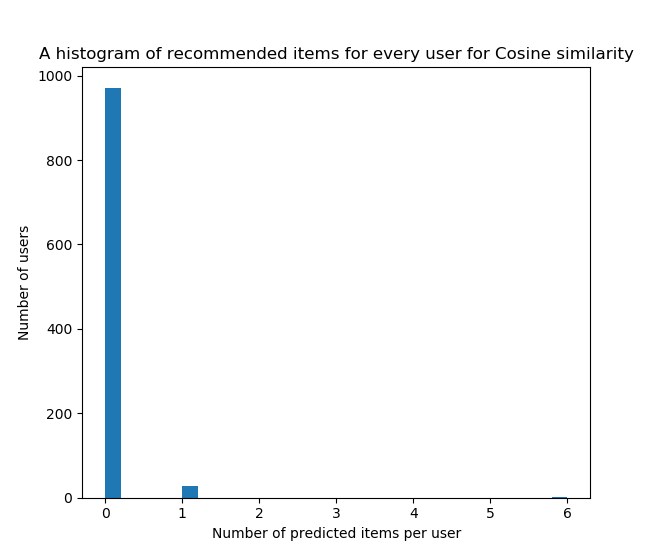
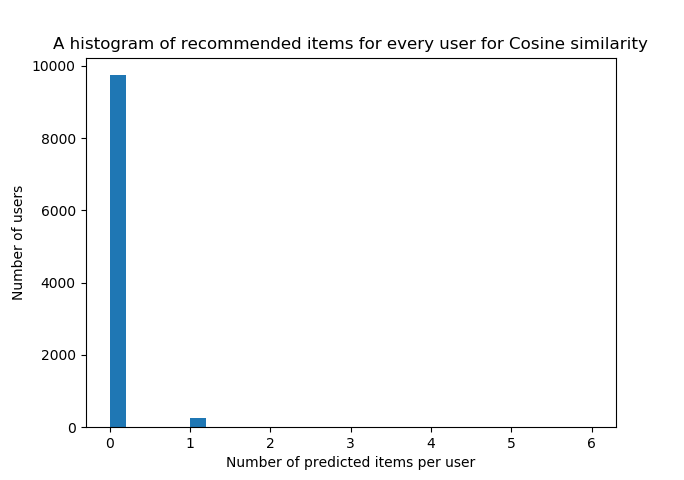
modifying README.md

diff --git a/README.md b/README.md
@@ -1,1 +1,250 @@
-"#Recommender System" 
+# The Implementation of a Simple eCommerce Recommender System (Jan 2021)
+
+## Abstract
+
+This article gives an oversight at how recommendation systems are implemented. In addition, it gives an insight into the methods used in building a simple eCommerce recommendation system. The data used for building it was a dataset of customer reviews of items that were scraped from Amazon’s website.
+The recommendation system uses an item-item Collaborative filtering approach and compares Pearson's and Cosine correlation methods for finding similar items.
+
+#### Index Terms
+
+Artificial neural networks, big data applications, information filtering, recommender systems.
+
+## Table of Contents
+
+- [ Introduction ](#intro)
+  - [ Collaborative filtering ](#collab)
+  - [ Matrix Sparsity ](#usage)
+- [ How Recommender Systems Work ](#usage)
+- [ Implementations of Recommender Systems ](#usage)
+- [ How Amazon’s Recommender System Works ](#usage)
+- [ My Implementation ](#usage)
+  - [ Limitations of the data ](#usage)
+  - [ Matrix Sparsity ](#usage)
+  - [ Reducing Sparsity of the data ](#usage)
+  - [ My Implementation ](#usage)
+- [ Implementing the machine learning algorithm ](#usage)
+  - [ Pearson's correlation ](#usage)
+  - [ Cosine similarity ](#usage)
+- [ Results ](#usage)
+  - [ Accuracy ](#usage)
+- [ Conclusion ](#usage)
+
+<a name="intro"></a>
+
+## Introduction
+
+Recommender systems are a subclass of information filtering systems that are increasingly important today. Simply put, they are a machine learning algorithm that utilizes Big Data to suggest products or items to customers. [14]
+
+They are a vital part of many computer oriented companies. All the major social platforms such as Facebook, Twitter and Instagram use them as well as most eCommerce sites such as Amazon and Wish. They also represent a large part of their profits. The largest eCommerce platform Amazon reportedly generates 35% of its revenue from its recommendation engine [15].
+
+Moreover, the second largest eCommerce platform Wish generates almost all its profits solely from its recommendation engine. Therefore, developing a good recommendation system is all the more critical nowadays.
+
+Large pools of data are vital for implementing such a system. The more data points there are collected on a specific user the more accurate the suggestions can be. Of course, with the growth of data simultaneously rises the need for a more advanced algorithm and the selection of right data points that don’t end up confusing our algorithm, but assist it in making a better solution.
+
+Recommendation systems also play a critical role in other web-based platforms. For example, in boosting engagement and improving retention. Although in this article, I will be focusing more on the recommender systems used for eCommerce sites.
+How recommender system works
+There are several approaches we can take when building recommender systems. [16]
+
+Recommendation systems can be broadly classified into 2 types:
+
+- Collaborative Filtering
+- Content-Based Filtering
+
+A more thorough division further classifies them into demographic based filtering, utility-based filtering, knowledge-based filtering etc. [17] Of course the best approach is hybrid filtering, where you combine two or more different recommender techniques to create a better prediction model.
+
+<a name="collab"></a>
+
+### Collaborative filtering
+
+It is based on the premise that similar people like similar things. It solely relies on users' past activity on the platform. The more the user interacts with the platform the more accurate it becomes.
+
+This filtering method does not know who you are, what you like or what are the specifics of the items you like. It only looks at the interaction a specific user has and compares it with the interactions of other users.
+
+The core data of a collaborative filtering model is the user-item matrix or so-called utility matrix. Each number in the given matrix represents the users rating of a specific item.
+
+See image below:
+
+We can have two general approaches on how to implement collaborative filtering.
+
+1. User-User Collaborative Filtering: Compares similar users based on the items they have chosen.
+2. Item-Item Collaborative Filtering: Compares similar items together based on the past ratings the users have given.
+
+We can have two general approaches on how to implement collaborative filtering.
+
+1. Explicit data: This is in the form of a rating score that ranges from 1 to 5.
+
+2. Implicit data: This type of data does not directly imply how the user feels about a specific item rather its inference is indirect. For example how many hours a user played a game on Steam (a video game buying platform) or how many hours a user listened to a specific track.
+
+Generally, working with implicit data is better, because you don’t get the active user involved. In addition, explicit data is very noisy, because people tend to give it an aspirational rating [18]. For example, in the case of Netflix users will give a documentary 5 stars, although they would rather watch a comedy show more often, even though they gave that show a lower rating.
+
+### Content-based filtering
+
+This approach relies only on domain knowledge of items and users and it does not take into account their past interactions. This approach finds a solution based on the similarity of the content of users and items.
+
+User features take into consideration for example the user's age, his or her gender, what types of categories the user likes, etc. Item features on the other hand can for example include the price of the item, its category, the description or its given keywords.
+
+## Implementations of Recomener systems
+
+Generally collaborative filtering is the best approach for implementing a recommendation system [18]. Other approaches are also preferable if you have ways of hybridizing and combining it with the main recommendation system. Especially, they can be useful in cold starting when you don’t have enough information about the user.
+
+There are a few more important steps you have to take into consideration, before you implement the main algorithm. The most important is data preprocessing (which includes outlier removal, denoising etc.). Due to size issues you also have to take into consideration ‘smart’ dimensionality reduction using MF (matrix factorization) or SVD (singular value decomposition).
+
+## How Amazon’s Recommender System Works
+
+Amazon’s recommendation system is based on item-item collaborative filtering. It is working with massive datasets and produces recommendations in real-time. This type of filtering matches each of the users' purchased and rated items to similar items then combines those similar items into a recommendation list for the user. [21]
+
+Interestingly, it makes most conversions via email, where they present you with bundles of items from different categories where you have been browsing.
+
+Due to Amazon being a private company, the complete mechanisms of how exactly their state of the art recommendation system works are not known. Although, it is known that they look at excessive amounts of data points, some of which include:
+Purchased items/shopping carts (most focus is put into this one)
+All user and item features
+Abandoned carts
+Dwell times (time before you click back on an item)
+Cursor location
+Web search history - Amazon tracks you outside of its web platform
+Amazon search history
+Etc.
+
+Amazon also uses different pipelines to test out their different approaches and then deploy those which perform the best. [20]
+
+Amazon’s article from 2003 [19] talks about Amazon taking an item-item collaborative filtering approach. It mentions that collaborative filtering is computationally expensive with O(NM), where M is the number of customers and N is the number of product catalog items. Although scanning every customer can be approximated with O(M), because almost all customers contain a small number of items. Further reading also discusses discarding customers with few purchases to avoid performance issues.
+
+Getting a basic understanding on how Amazon’s recommendation system was implemented gave me a better insight into how to go about making my own.
+
+## Dataset I Will be working with
+
+In this article I will present my findings that I gathered implementing a simple recommendation system from scratch from the Amazon Product Review dataset (source: https://cseweb.ucsd.edu/~jmcauley/datasets.html ).
+The dataset has been generated from web crawling the Amazon website. The larger dataset from 2018 includes 34Gb of raw review data, which includes 233.1 million reviews and ratings from more than 40 million users and more than 20 million items. Its metadata includes reviews and ratings,
+
+timestamps, prices and categories.
+
+## My Implementation
+
+The recommender system I built also implements an item-item collaborative filtering approach similar to the first Amazon recommender system.
+
+However, it uses far less data points. A large part of the reason why, is that the dataset that I have used was obtained by scraping the information from Amazon’s openly available data. Therefore, it was impossible to obtain information about people’s buying decisions, which make for the best predictions in real life. The only data points you could obtain from users were the reviews they wrote and even those were scarce.
+
+For my implementation of a simple recommender system I took into considerations only the explicit reviews, id of the item and the user. To recommend new items for a specific user the algorithm looks at the items the user has rated positively (from a rating from 1 to 5 it chooses only those above 3). Afterwards, it looks at the similarity of each item compared to other items. Lastly, it picks all the items that are most similar to each of the items and returns a list of five most similar items recommended for the chosen user.
+
+Due to limitations with my computer's RAM I only worked with a ‘smaller’ dataset in only one specific category.
+
+Limitations of the data
+As mentioned in the sections above, no matter how good is the implementation of the recommender system the nature of the data I was working with poses a limitation to how accurate it can be.
+
+The biggest discrepancy between the data extracted from the web crawler versus the data that Amazon possesses is that not all users are being accounted for, because not all users rate products. Secondly, there is no information provided on the past purchases of users, which is the most important data point on which eCommerce recommendation systems are built upon.
+
+### Matrix Sparsity
+
+A common challenge with real-world ratings data is that most users will not have interacted with (in our case rated) most items, and most items will only have been rated by a small number of users. This results in a very empty or sparse user-item matrix.
+
+The formula for calculating matrix sparsity is the following:
+
+#(total no. of elements) = #(no. of unique items) \* #(no. of unique users)
+Sparsity = 1 - #(of ratings)/ #(total no. of elements)
+
+There occur several problems with very sparse matrices. Firstly, there arises a problem regarding time and space complexity. A very large matrix requires a lot of memory storage and if it can fit into memory there is still a problem with time complexity, since most computations performed will involve adding or multiplying zero values together. There are some workarounds to these two issues, for example using alternate data structures to represent the data. However, due to time restraints I did not implement such solutions. [22]
+
+Furthermore, there is an issue that if the sparsity above is 99.5% collaborative filtering might not be the right option. This is a number researchers have chosen based on past personal experience. [24]
+
+### Reducing Sparsity of the data
+
+The analysis of the small subset of data in the Amazon Fashion category revealed a matrix sparsity of 99.99937% far from the 99.5% threshold
+
+| Name              | Value       |
+| ----------------- | ----------- |
+| Number of ratings | 883636      |
+| Number of items   | 186189      |
+| Number of users   | 749233      |
+| Matrix sparsity   | 99.999367 % |
+
+There are three approaches we can take to reduce matrix sparsity. Either we reduce users to those who have rated more items than a certain threshold or we reduce items that have been rated a certain number of times or we reduce both.
+
+In trying out different approaches I found that the best approach is to implement an item threshold if you want to implement an item-item based recommender system and a user threshold if you want to implement an user-user based system. For example, if you want to compare different items together you eliminate those who have been rated a certain number of times. Doing this also results in more accurate predictions.
+
+In the dataset I was working with I have implemented an item threshold above 300. That meant that every item had to be rated by at least 300 different users. Only that change resulted in an decrease of matrix sparsity to 99.4105%.
+
+| Name              | Value       |
+| ----------------- | ----------- |
+| Number of ratings | 138200      |
+| Number of items   | 197         |
+| Number of users   | 113357      |
+| Matrix sparsity   | 99.410545 % |
+
+This simple change also resulted in a big change in the average rating of an item distribution to a more gaussian like distribution.
+
+However, the change of the distribution in the average rating per user worsened. It is possible to correct this with further reduction of user data. Although, that would bring a further reduction in data, which is not a desirable outcome.
+
+### Implementing the machine learning algorithm
+
+In the implementation of the machine learning algorithm I tried two main approaches. The first one uses Pearson's correlation coefficient and the second one Cosine similarity.
+
+#### Pearson's correlation
+
+The Pearson’s Correlation coefficient is a statistic that measures linear correlation between two variables X and Y [23]. In the case of collaborative filtering those two variables are the two rows of the item-user matrix. Representing two ratings from two different items.
+
+Its formula is the following.
+
+#### Cosine similarity
+
+Cosine similarity on the other hand is a measurement between two non-zero vectors of an inner product space. It is defined to be equal to the cosine of the angle between them. (source: https://en.wikipedia.org/wiki/Cosine_similarity )
+
+The formula is the following.
+
+With cosine similarity you have to be careful that all of your values are defined. All the non-zero values should be changed into zero values. With doing so arises an issue in time complexity as now almost all values have to be computed, although only several of them are defined.
+
+## Results
+
+Interestingly, both methods couldn’t produce new recommendations for the majority of users. To speed up the process I removed all the users that only made one rating, because they were more likely not to have any predictions at all.
+
+If I were to compute all of the data on my computer for all users using Pearson’s correlation it would have taken approx. 7 hours and even more for Cosine corr. That is why the data was tested with a different approach. The list of all unique users was shuffled to prevent unnecessary similarities and then it was computed for only ten thousand of users.
+
+In testing both approaches it was overwhelmingly evident that Pearson's correlation was a much faster method. This is mostly due to me not optimizing the code and to increased time complexity due to the additional calculations with zero values.
+
+From a glance at the graphs above it is evident that Pearsons similarity was able to recommend more items to users in comparison to the Cosine similarity. This is most likely due to harsher restrictions Cosine similarity was given.
+Accuracy
+Implementing accuracy measurements is not as straightforward in collaborative filtering as it is for example in calculating the accuracy of neural networks. There you can simply split the data into testing and training data and then compare your solution to the training data. However, in collaborative filtering doing so is a bit harder, since the data is interdependent. The best approach is to remove random data points and use the algorithm to predict them. However, this dataset was unfortunately too sparse and this method would not be the most reliable.
+
+## Conclusion
+
+The most issues I had implementing the recommender system was with memory. Generally that is because the whole dataset is loaded simultaneously into the RAM. That is also one of the reasons I chose to work with a smaller dataset subcategory. If you have even bigger datasets it is crucial to implement dimensionality reduction for the user-item matrix. A good workaround with RAM issues is to use Dask - a python library used for storing your dataset in the memory on your hard disk.
+
+Many improvements could be done to this recommendation system. One of the things is introducing more data points and with them more advanced methods. These range from deep learning, LSTMs to adding in sentiment analysis for turning comments into keywords and then using those as data points.
+
+In retrospect it would be better implementing a content-based filtering system for such sparse data or a combination of both.
+
+## References
+
+- Collaborative system with implicit feedback
+  https://github.com/AudreyGermain/Game-Recommendation-System#als
+- https://medium.com/radon-dev/als-implicit-collaborative-filtering-5ed653ba39fe
+- implicit vs explicit feedback
+  https://www.digitalvidya.com/blog/collaborative-filtering/
+- all you need to know about collaborative filtering
+  https://www.digitalvidya.com/blog/collaborative-filtering /
+- cosine similarity
+  https://www.youtube.com/watch?v=h9gpufJFF-0&feature=emb_logo
+- centered cosine similarity
+  https://towardsdatascience.com/using-cosine-similarity-to-build-a-movie-recommendation-system-ae7f20842599 - cosine similarity
+  https://www.analyticsvidhya.com/blog/2020/08/recommendation-system-k-nearest-neighbors/
+- k nearest neighbour
+  https://github.com/mandeep147/Amazon-Product-Recommender-System/blob/master/Recommender%20System/Recommender%20System.ipynb
+- product recommender system na mojih podatkih
+  https://www.youtube.com/watch?v=v_mONWiFv0k - recommender systems with neural networks
+
+My dataset
+
+- https://nijianmo.github.io/amazon/index.html
+  Ups and downs: Modeling the visual evolution of fashion trends with one-class collaborative filtering, R. He, J. McAuley, WWW, 2016 pdf
+- Image-based recommendations on styles and substitutes, J. McAuley, C. Targett, J. Shi, A. van den Hengel, SIGIR, 2015
+  https://sigmoidal.io/recommender-systems-recommendation-engine/
+- https://www.mckinsey.com/industries/retail/our-insights/
+- how-retailers-can-keep-up-with-consumers
+- https://www.analyticsvidhya.com/blog/2020/08/recommendation-system-k-nearest-neighbors/
+- https://sigmoidal.io/recommender-systems-recommendation-engine/
+- https://www.youtube.com/watch?v=bLhq63ygoU8&feature=emb_logo
+- https://www.cs.umd.edu/~samir/498/Amazon-Recommendations.pdf
+- https://stackoverflow.com/questions/2323768/how-does-the-amazon-recommendation-feature-work
+- https://www.cs.umd.edu/~samir/498/Amazon-Recommendations.pdf
+- https://machinelearningmastery.com/sparse-matrices-for-machine-learning/
+- https://en.wikipedia.org/wiki/Pearson_correlation_coefficient
+- https://stats.stackexchange.com/questions/367380/why-the-maximum-sparsity-is-99-5-in-collaborative-filtering
